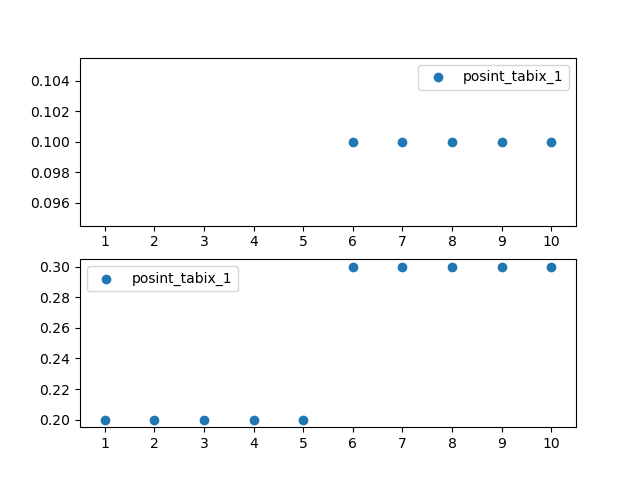
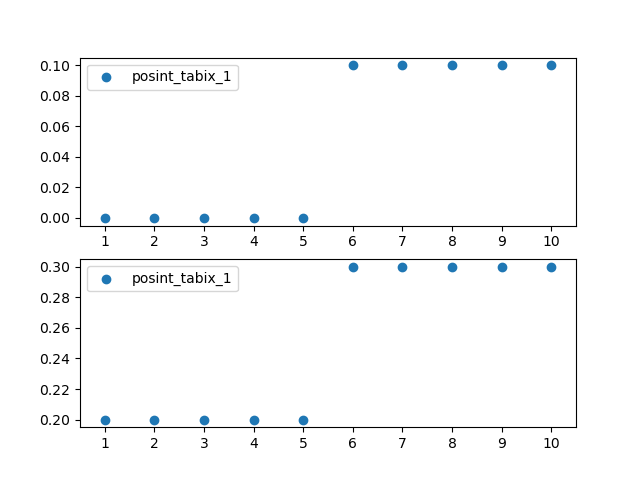
Fixed the bug in draw_position_scores.

diff --git a/draw_position_scores.py b/draw_position_scores.py
@@ -26,9 +26,6 @@ for ch in ref.chromosomes:
 for gr in GRR.get_all_resources():
 	if gr.get_type() != "position_score":
 		continue
-	if not gr.get_id().startswith('mini'): 
-		continue
-	print(gr.get_id())
 	sc = PositionScore(gr)
 	sc.open()
 	pylab.figure()
@@ -41,20 +38,18 @@ for gr in GRR.get_all_resources():
 		chrom_len = ref.get_chrom_length(ch)
 		all_score_names = sc.get_all_scores()
 		for p in range(1, chrom_len+1):
-			print(ch, p, sc.fetch_scores(ch, p))
 			scores = sc.fetch_scores(ch, p)
-			if not (scores is None):
+			if scores is not None:
 				assert len(scores) == len(all_score_names)
 				for score_name, score in zip(all_score_names, scores):
-					if score:
+					if score is not None:
 						xs[score_name].append(p)
 						ys[score_name].append(score)
 		for score_name in all_score_names:
-			pylab.scatter(xs[score_name],ys[score_name], label=score_name)
+			pylab.scatter(xs[score_name], ys[score_name], label=score_name)
 		pylab.xlim([1-0.5, chrom_len+0.5])
-		pylab.xticks(range(1,chrom_len+1))
+		pylab.xticks(range(1, chrom_len+1))
 		pylab.legend()
-		print(xs, ys)
 	pylab.savefig(f"{gr.get_id()}/scores_graph.png")
 
 
